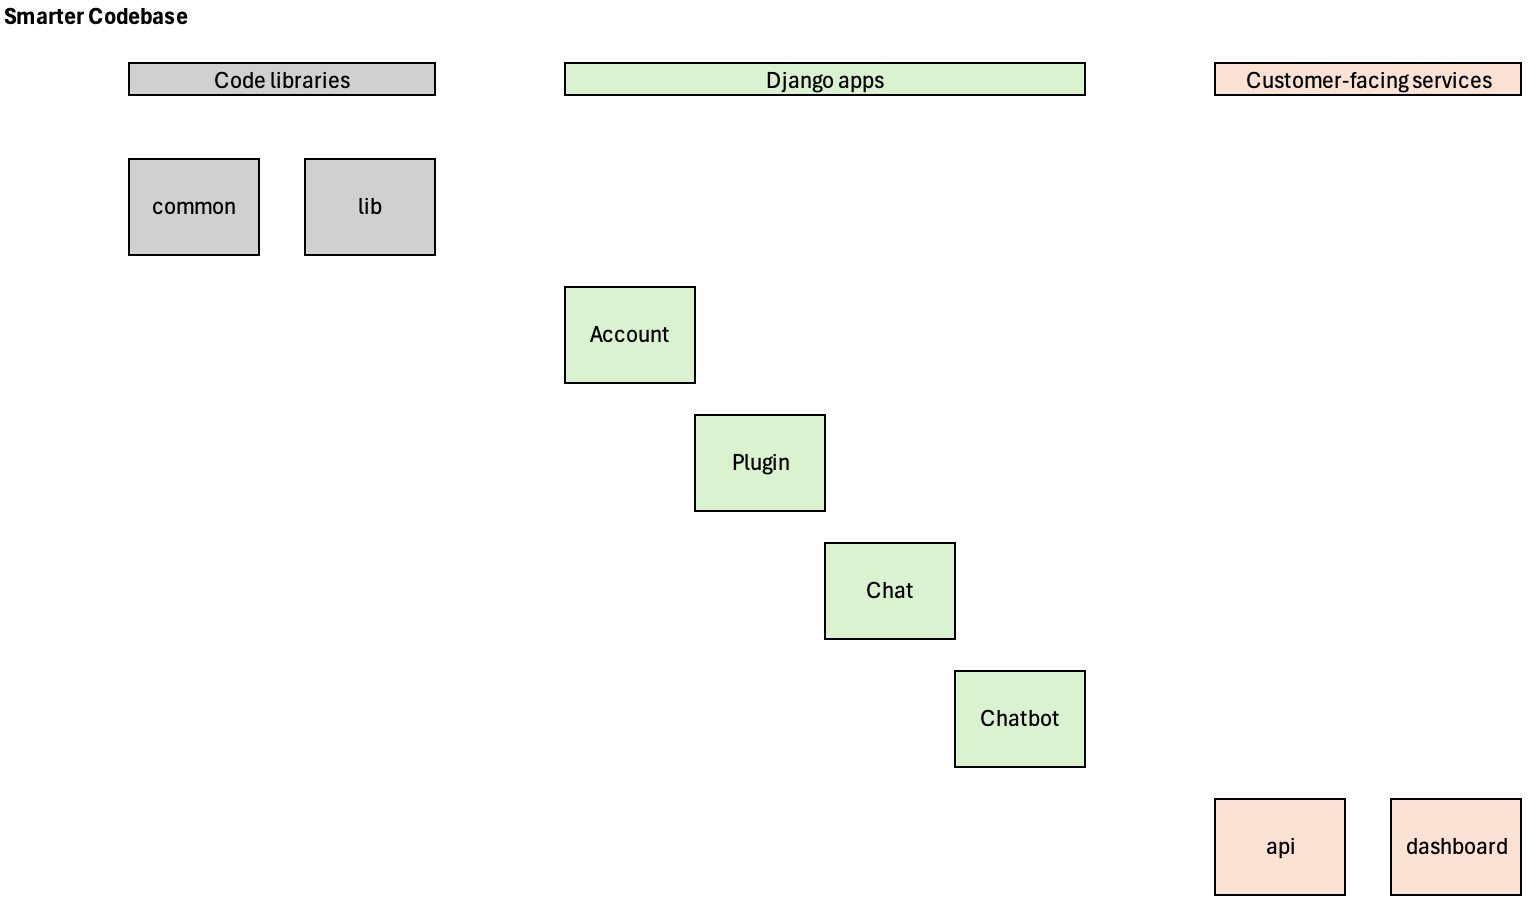
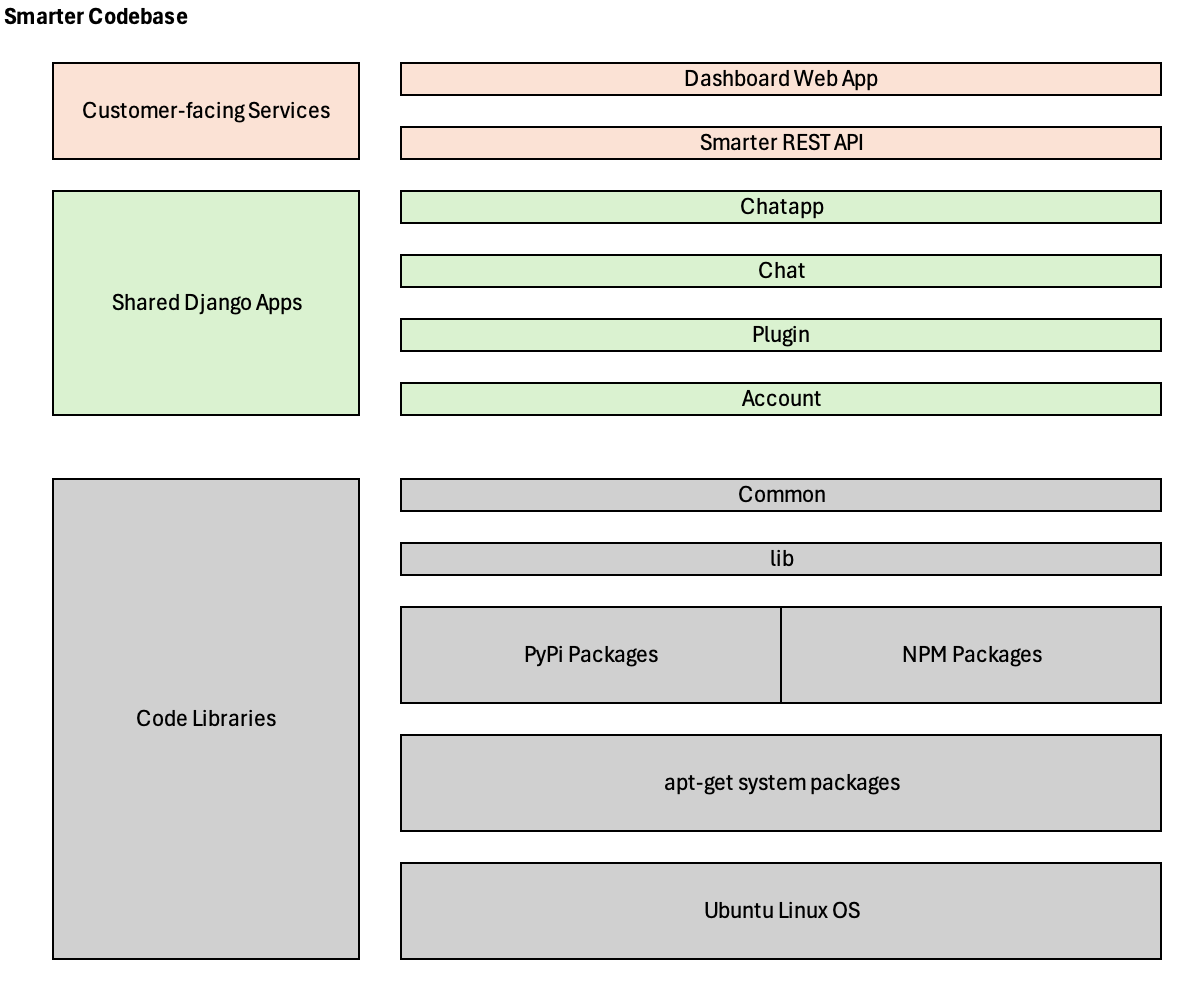
docs: update developer documentation

diff --git a/doc/README.md b/doc/README.md
@@ -1,4 +1,4 @@
-# Technical Overview of this Architecture
+# Smarter Docs
 
 Table of contents:
 
